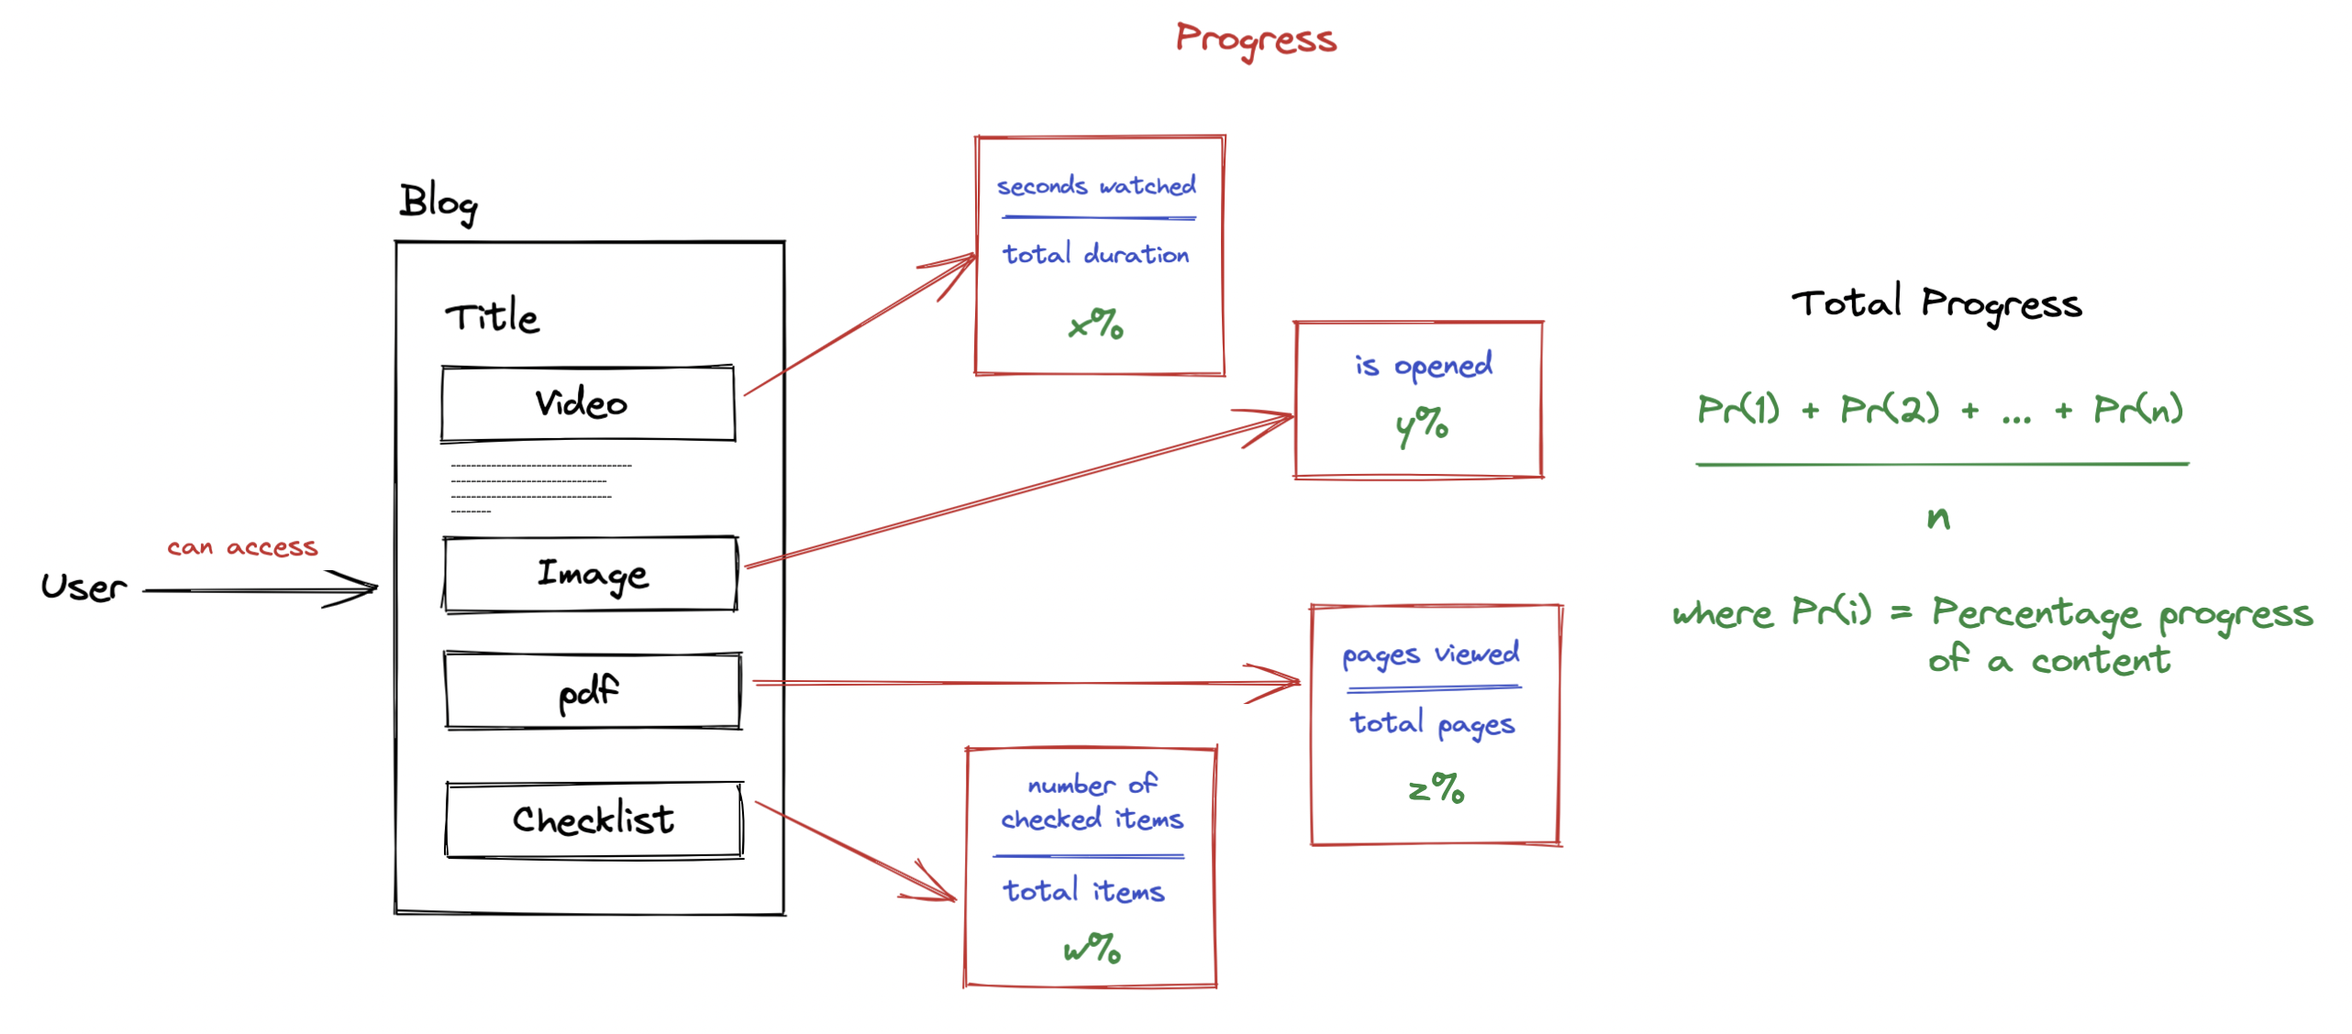
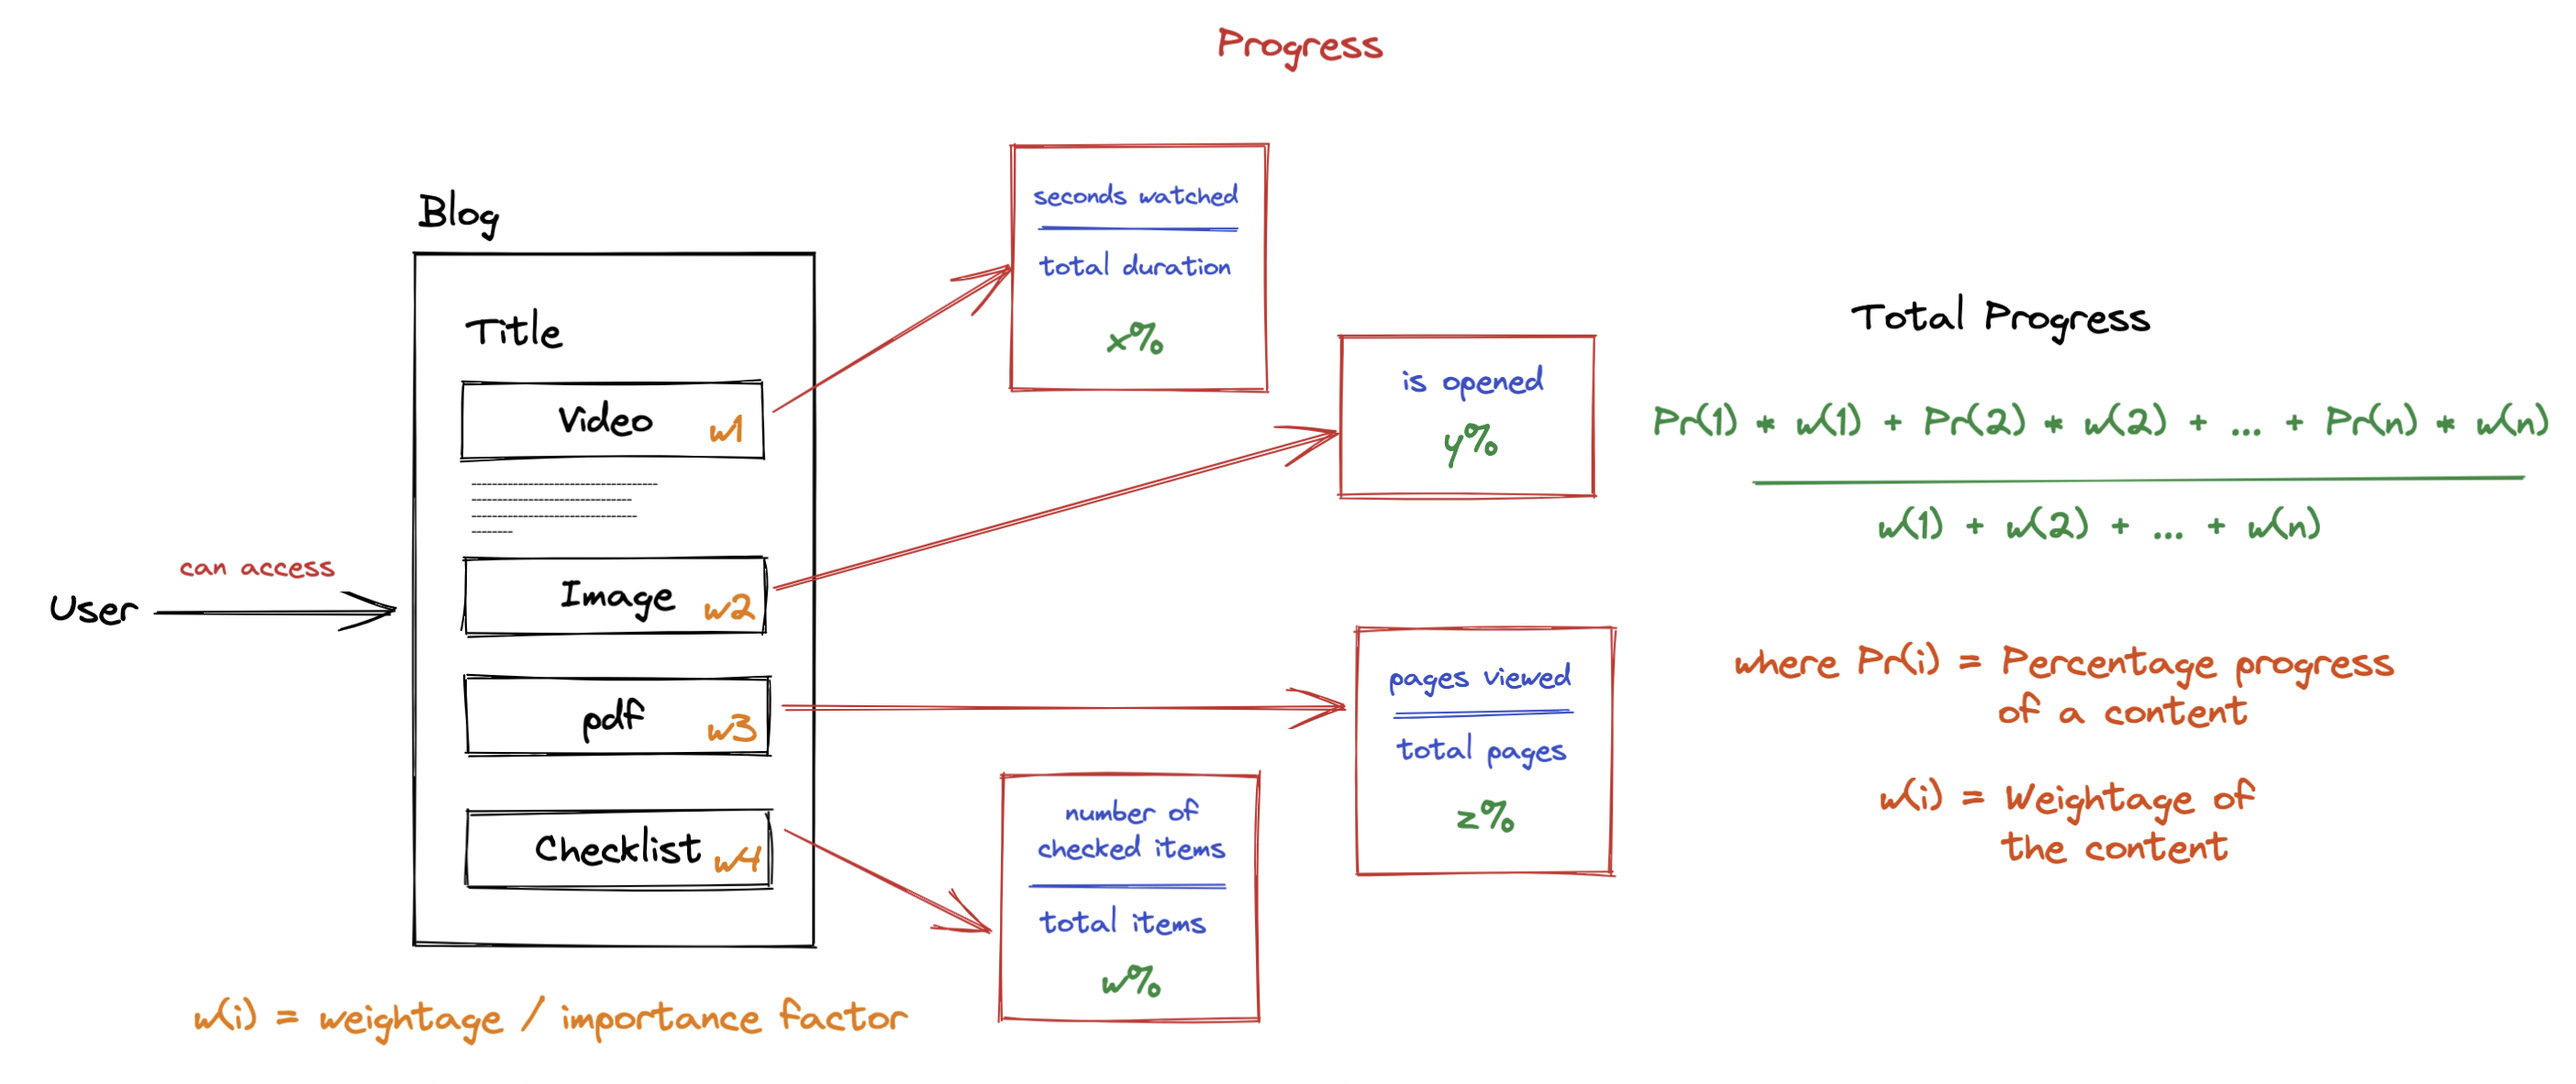
update documentation

diff --git a/README.md b/README.md
@@ -51,11 +51,8 @@ Based on the email id and the password provided, the user is logged in.
 
 - `create-blog`
 
-Creates a blog based on details like title and the type of the blog.
+Creates a blog based on details like title, type and the content of the blog.
 
-- `update-blog`
-
-Updates the blog title as well as adds / updates the content present inside the blog.
 
 - `log-time`
 
@@ -73,6 +70,14 @@ Track the progress of a specific content inside the blog based on the attributes
 
 Computes the progress of the blog based on the progress of the individual content.
 
+> The performance of certain APIs are improved by using the caching mechanism and database indexing.
+
+### Assumptions
+- All the attributes of the different contents can be modified at any time.
+- Whenever user opens and closes the blog, the `log-time` API will always be called.
+- The `track-content-progress` API will be called every 1 minute and also when the user closes the blog page.
+- Whilst the content is added to the blog, weights will be assigned to the different contents i.e. video, image, pdf, checklist, etc will have a weightage (_ranging from 1 to 5 and can be changed as per the requirements_) based on the content through which the overall progress of the blog will vary accordingly.
+- The creation of the blog will be done by some admin user and the creation of the blog will be done after adding all the contents till then it will be saved as a draft.
 
 ## Installation and Running
 
